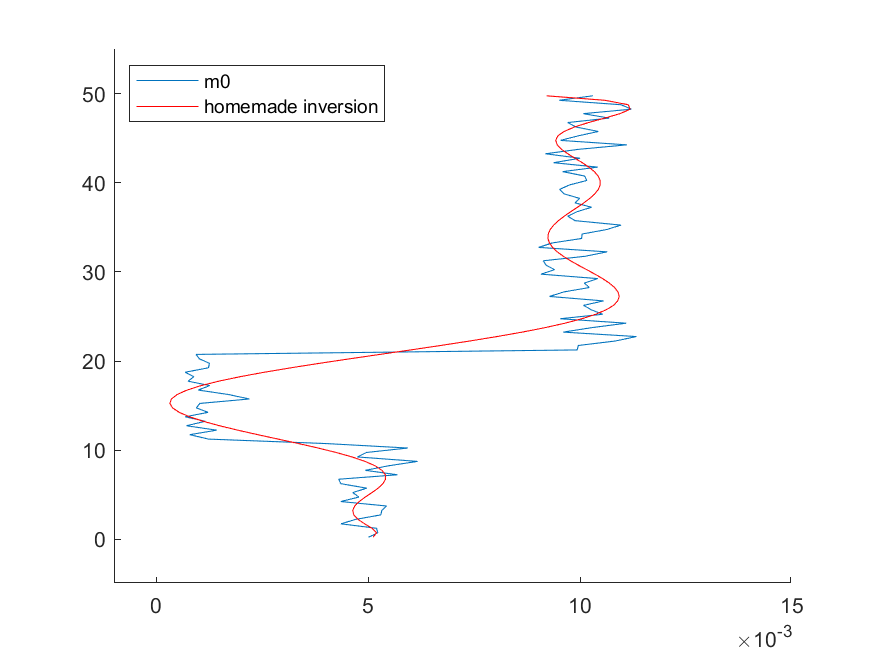
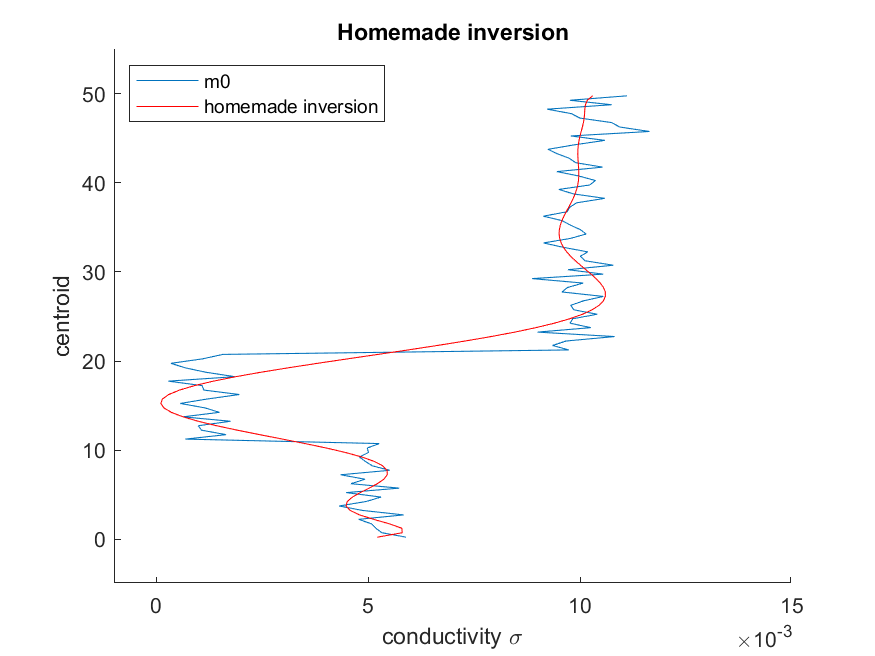
Inversion - matlab

diff --git a/matlab_models/EM_forward_model_anhorn.m b/matlab_models/EM_forward_model_anhorn.m
@@ -3,7 +3,7 @@ clear all, close all, clc,
 % //////////////////////////////////////////
 % FORWARD MODEL
 % //////////////////////////////////////////
-
+tic
 % building initial conductivity model
 depth = 30; % depth
 resmap = ones(30, 50);
@@ -81,9 +81,10 @@ end % noise
 % hold off
 
 % setting up inversion functions
-k = 0:1:10;
+k = 0:1:11;
 G = zeros(length(y), length(k));
 G(:, :) = y(:).^repmat(k, length(y), 1);
+
 beta = inv(G'*G)*(G'*x);
 
 y1=zeros(length(y), 1);
@@ -107,12 +108,19 @@ plot(y1, y, 'r')
 xlim([-0.001 0.015])
 ylim([-5 55])
 legend('m0', 'homemade inversion', 'location', 'northwest')
+xlabel('conductivity \sigma')
+ylabel('centroid')
+title('Homemade inversion')
 hold off
 saveas(inversion, 'inversion_fig.png')
+
+toc
 
 % /////////////////////////////////
 % test using toolbox
 % /////////////////////////////////
+
+tic
 
 x = centroid';
 y = sig3*(x<20) + sig2*(x>=20 & x < 30) + sig1*(x >= 30);
@@ -131,6 +139,7 @@ model_GMR = fitrgp(x,y,'KernelFunction','squaredexponential',...
 yfit_GMR = predict(model_GMR,x);
 yfit_SVM = predict(model_SVM,x);
 
+% plot
 test = figure(4);
 hold on
 plot(y, x)
@@ -141,9 +150,11 @@ ylim([-5 55])
 legend('m0','SVM', 'GMR')
 xlabel('conductivity \sigma')
 ylabel('centroids')
+title('Using Machine Learning ToolBox')
 hold off
-
 saveas(test, 'test_fig.png')
+
+toc
 
 % /////////////////////////////////
 % functions 
@@ -152,7 +163,6 @@ saveas(test, 'test_fig.png')
 function Rh = rh(prof, coilspacing)
     Rh = 1./((4.*(prof./coilspacing).^2+1.^(1/2)-2.*(prof./coilspacing)));
 end
-
 function Rv = rv(prof, coilspacing)
     Rv = 1./((4.*(prof./coilspacing).^2+1.^(1/2)));
 end
